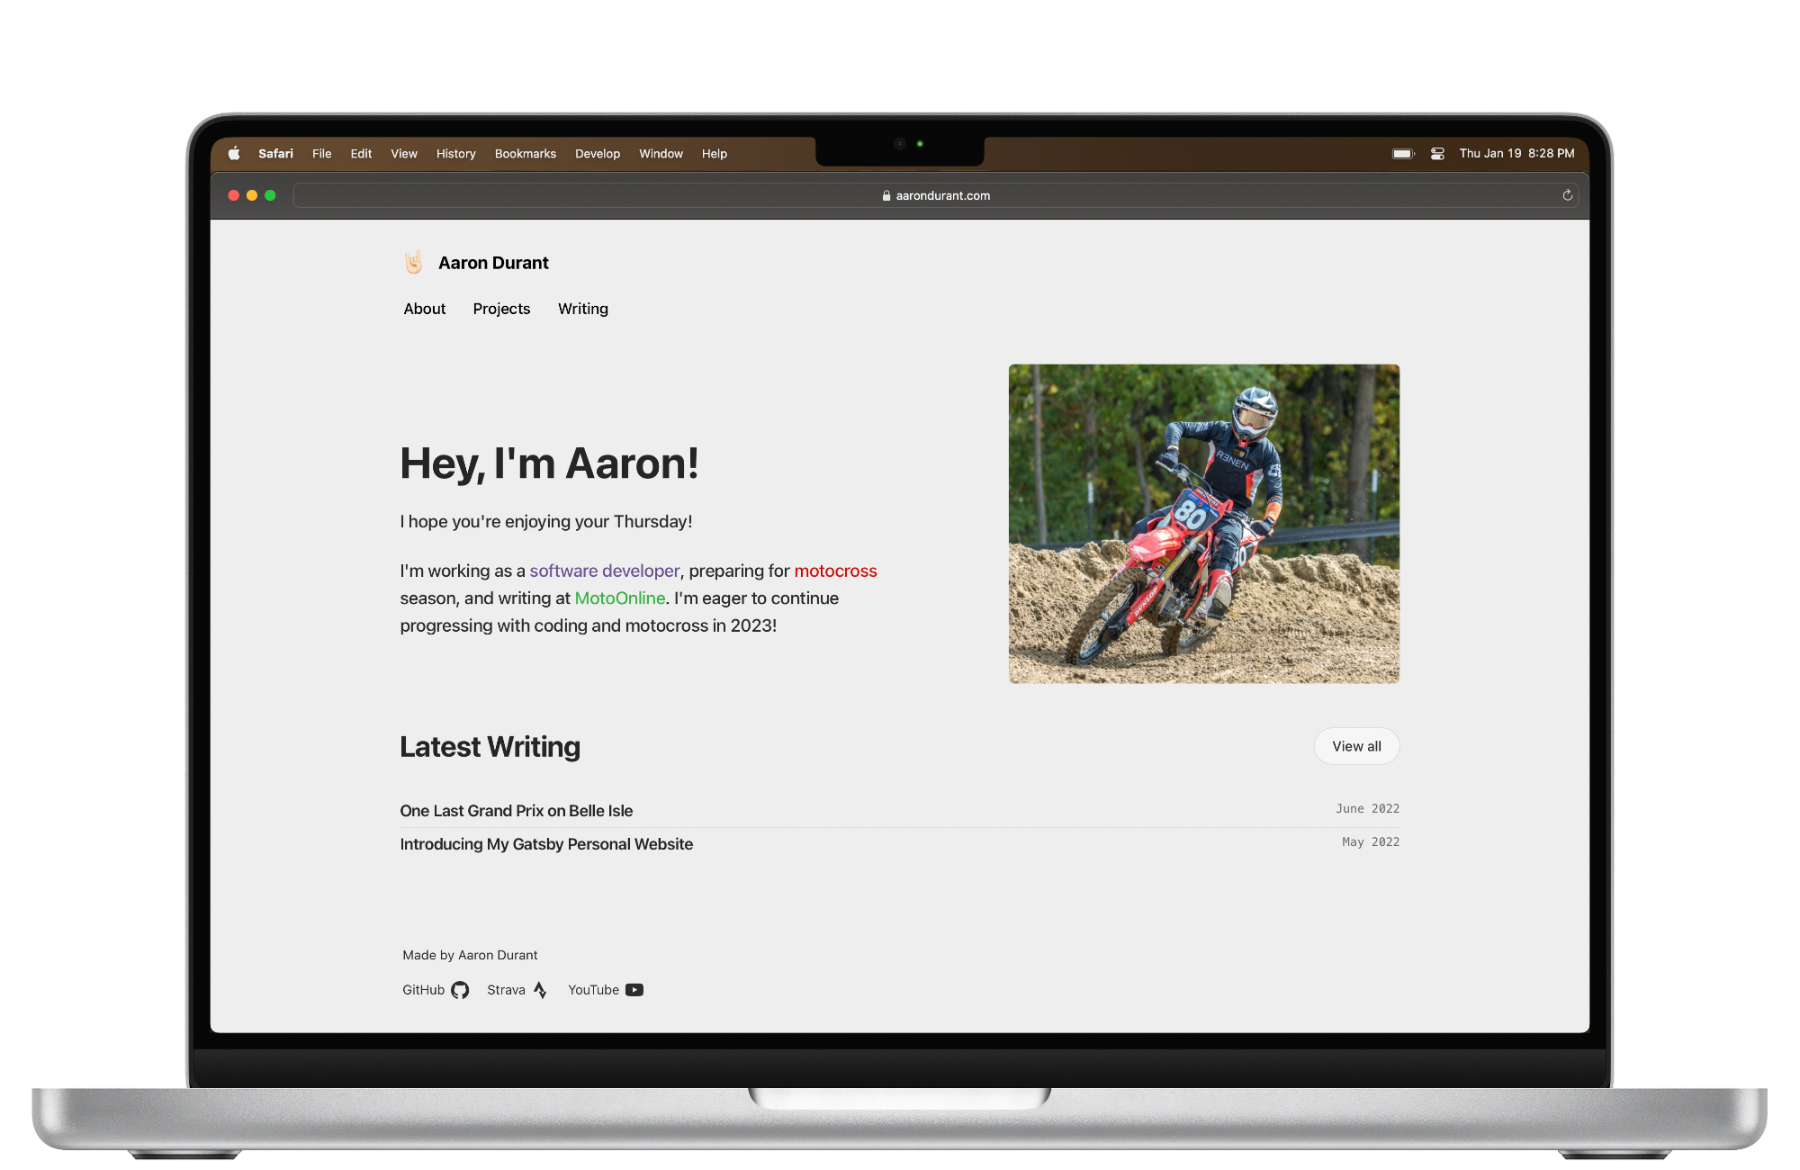
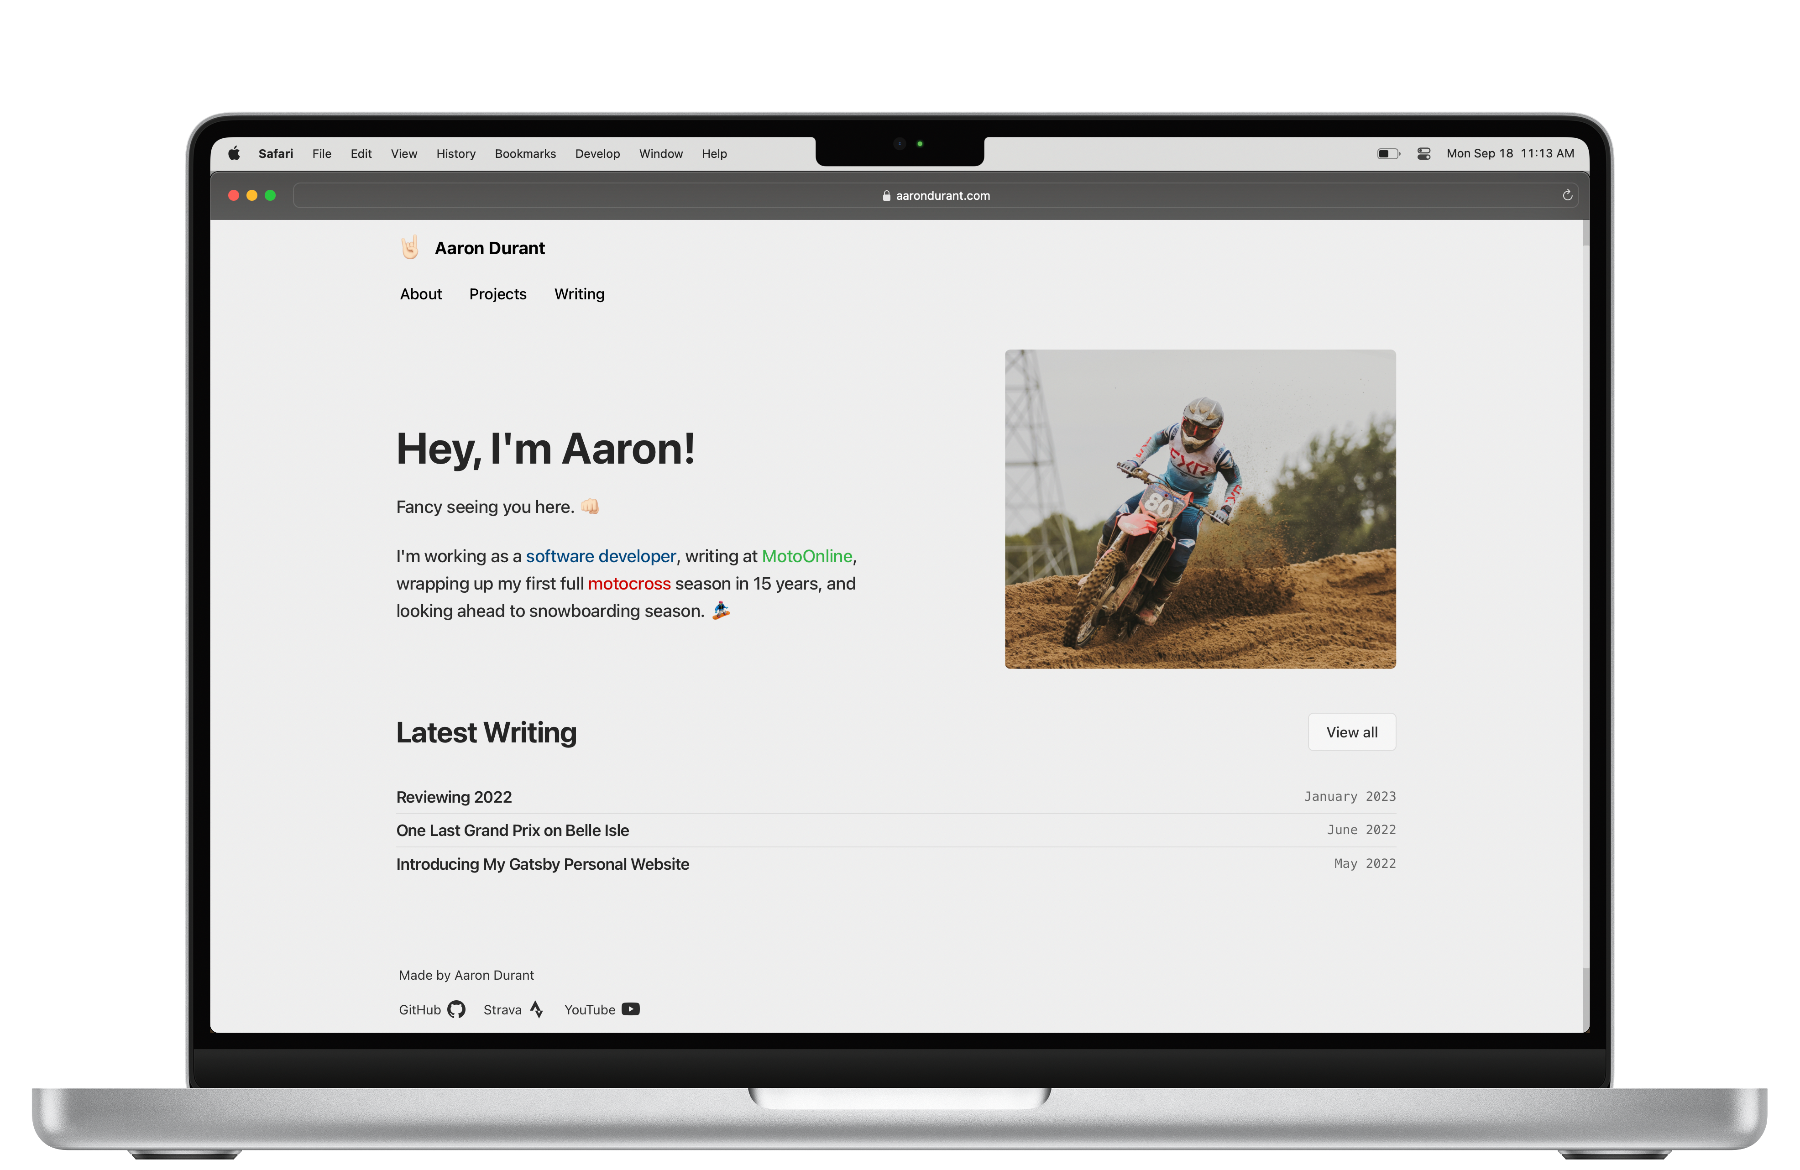
Update README and SEO image

diff --git a/gatsby-config.js b/gatsby-config.js
@@ -4,7 +4,7 @@ module.exports = {
     description: `Aaron Durant's personal website.`,
     twitter: `AaronRDurant`,
     siteUrl: `https://aarondurant.com`,
-    image: `/aaron-durant-chicago-card.jpg`,
+    image: `/aaron-durant-2023-baja-acres-motocross-jump.jpg`,
     author: {
       name: `Aaron Durant`,
       summary: `Aaron Durant is a software developer, motocross racer, and writer.`,

diff --git a/src/pages/index.js b/src/pages/index.js
@@ -106,7 +106,7 @@ export const Head = () => (
 
 export const pageQuery = graphql`
   query {
-    allMarkdownRemark(limit: 6, sort: { frontmatter: { date: DESC } }) {
+    allMarkdownRemark(limit: 5, sort: { frontmatter: { date: DESC } }) {
       nodes {
         excerpt
         fields {

diff --git a/README.md b/README.md
@@ -2,16 +2,14 @@
 
 ![Aaron Durant's Gatsby personal website](src/images/personal-website-screenshot.png "Aaron Durant's personal website")
 
-Completed in late January 2023, my website's current design marks the first revision to my little corner of the internet, which I initially launched in May 2022.
+Completed in late January 2023, this website's current design marked the first major revision to my Gatsby-powered little corner of the internet, which I initially launched in May 2022.
 
-Eight months on, none of the technology behind the website has changed — it's still using the Gatsby framework, Markdown files continue to drive the blog via GraphQL, and it remains hosted on Netlify. I'm open to using a Gatsby alternative for the next redesign and always considering using a CMS for blog posts. We'll see.
-
-I intend to stick with the current look and triple down on writing blog posts. I prefer quality over quantity but aim to produce more written pieces than I have in recent years.
+Eight months on, none of the technology behind the website changed — it's still using the Gatsby framework, Markdown files continue to drive the blog via GraphQL, and it remains hosted on Netlify. For now, I intend to stick with the current look and put time toward writing more blog posts.
 
 ## To Do ✅
 
-Beyond adding dark mode, I'll leave the design alone until I feel ready to work on version 3.0. I anticipate going with an ultra-minimalist look in the future but am still determining how I want it to look.
+Beyond potentially adding dark mode, I'll leave the design alone until I feel ready to work on version 3.0. I'm kicking around the idea of devising an ultra-minimalist look to deploy for 2024 — we'll see!
 
 ## Author 👨🏻💻
 
-- Aaron Durant // [aarondurant.com](https://aarondurant.com) // [@AaronRDurant](https://twitter.com/AaronRDurant)
+- Aaron Durant // [aarondurant.com](https://aarondurant.com)
